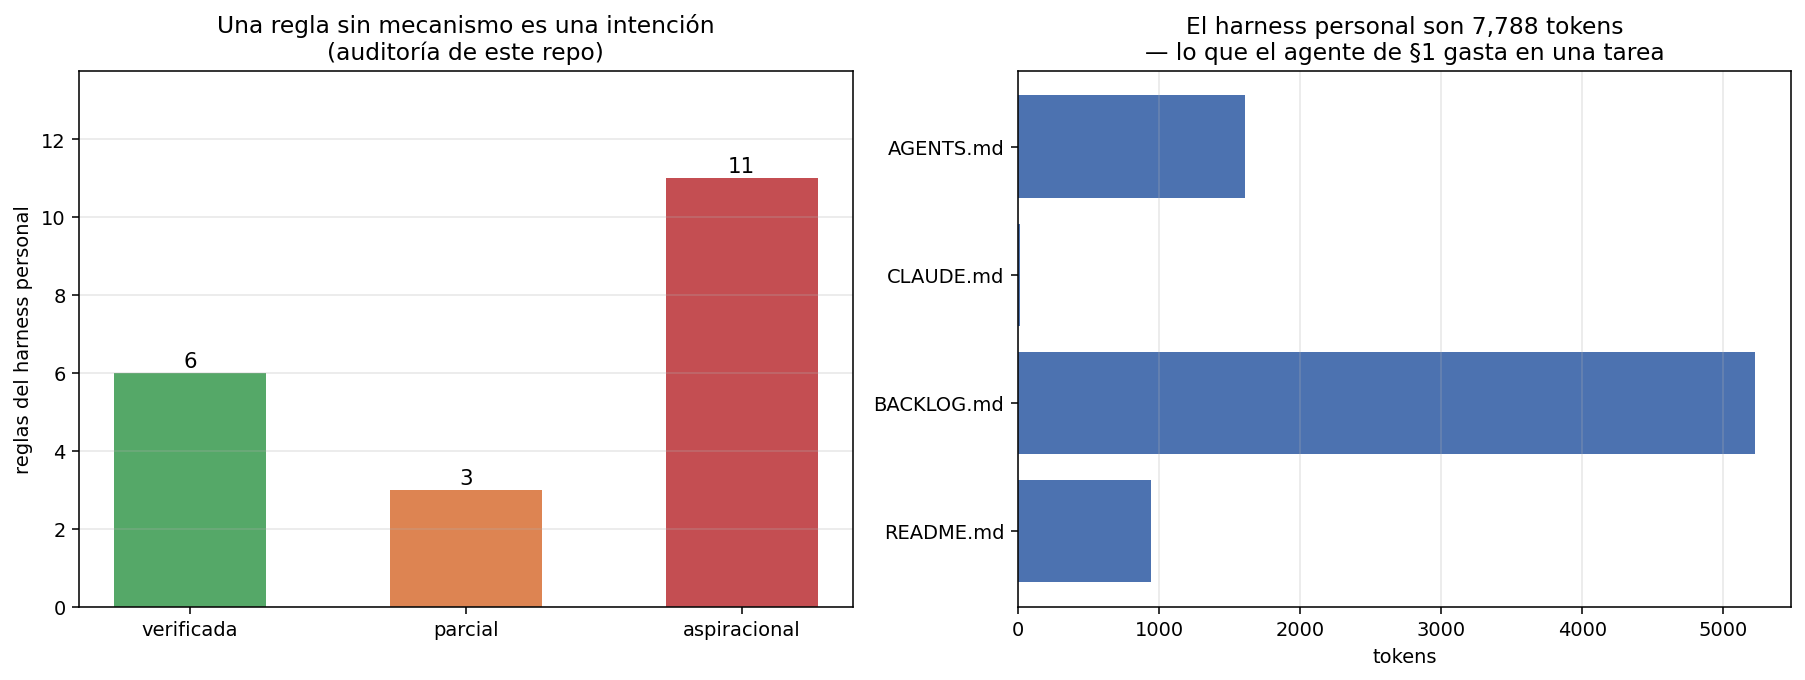
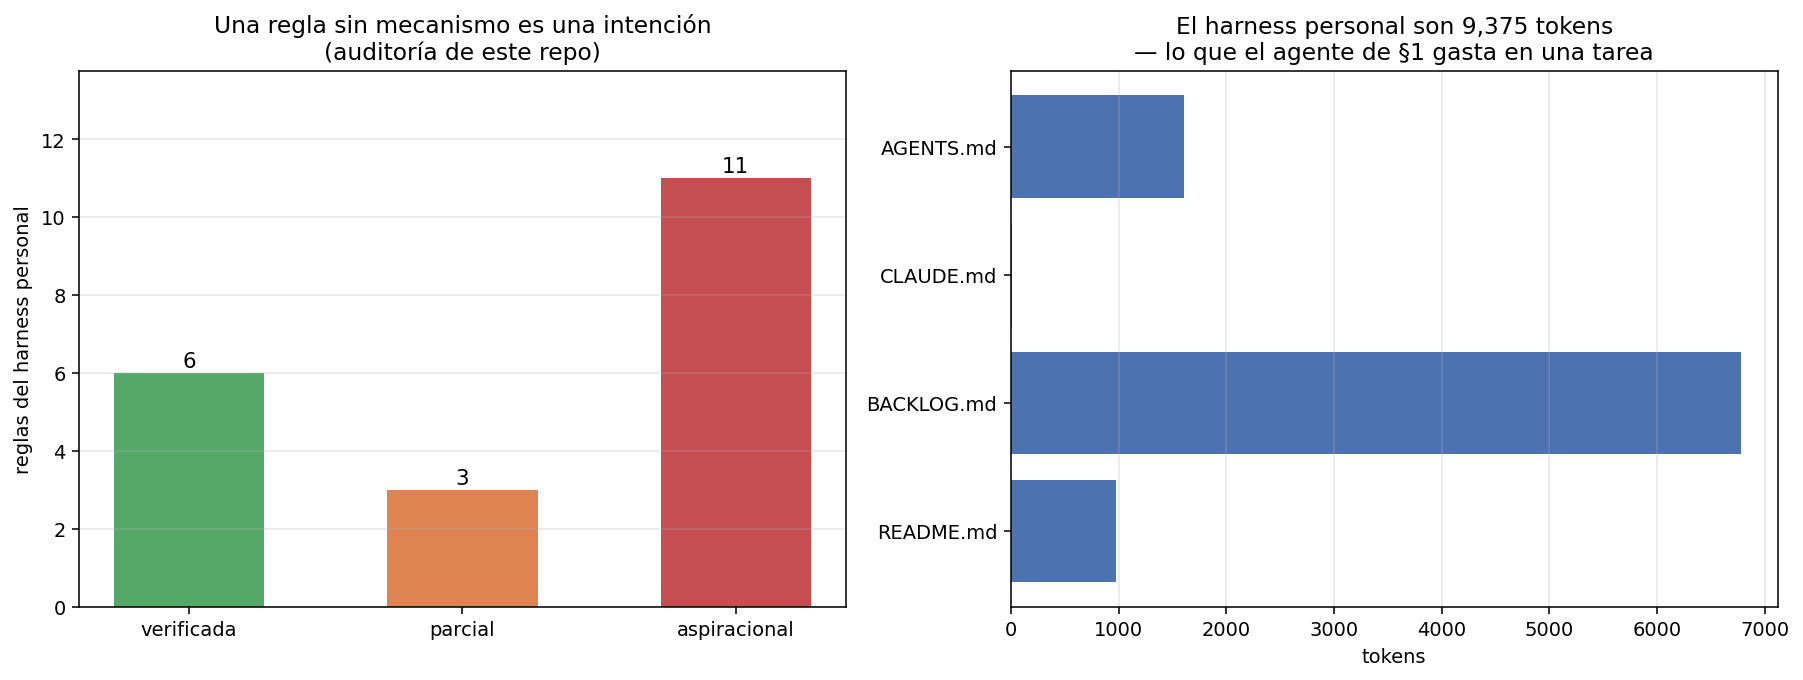
docs(harness): B8 — cerrar el módulo y sincronizar el repo
README del módulo con el resultado que lo atraviesa (cuatro intervenciones de
harness, ninguna movió el resultado de forma detectable, todas movieron el
proceso), la tabla de secciones, las instrucciones del servidor MCP y el
inventario de datos con el costo histórico real: USD 0,1034 en 537 respuestas
cacheadas.

- mkdocs.yml: nav de las diez páginas de 06 y symlink docs/06-harness. El
  sitio compila.
- README raíz: 06 pasa a Terminado 9/9; los seis módulos cerrados; el
  servidor MCP entra en el arranque rápido.
- BACKLOG: B8 cerrado con los criterios de aceptación marcados y los números
  vigentes por sección. Estado de las masterclasses y hoja de ruta
  sincronizados.
- B14 nuevo (P1): dar mecanismo a las reglas aspiracionales que la auditoría
  de §9 encontró — config de ruff, test de inmutabilidad del corpus, hook de
  commit-msg, y una decisión explícita sobre la doctrina #4. Deja fuera "no
  fabricar números", que §9 argumenta que no es automatizable.

Verificado: los nueve scripts corren offline con cero llamadas a la API, 197
tests en verde y `ruff check` limpio en 06-harness/ y tests/.

diff --git a/BACKLOG.md b/BACKLOG.md
@@ -5,7 +5,7 @@ de aceptación verificables. Los commits referencian el ID (`feat(ontologias): B
 sección 3`). Si una tarea cambia de alcance o estado, se actualiza aquí en el mismo
 cambio.
 
-Última revisión: **2026-08-04**.
+Última revisión: **2026-08-06**.
 
 ---
 
@@ -17,15 +17,18 @@ cambio.
 | 02 | Information Retrieval     | 9/9       | Terminado   |
 | 03 | Patrones de producción    | 12/12     | Terminado   |
 | 04 | Economía de inferencia    | 6/6       | Terminado   |
-| 05 | Ontologías y representación del conocimiento | 9/9 | **En revisión** |
-| 06 | Harness agéntico          | 0/9       | Planificado |
+| 05 | Ontologías y representación del conocimiento | 9/9 | Terminado |
+| 06 | Harness agéntico          | 9/9       | Terminado   |
+
+Los seis módulos están cerrados. Lo que queda abierto son tareas transversales
+(`B10`, `B11`, `B12`, `B14`), no módulos nuevos.
 
 ---
 
 ## Hoja de ruta
 
-El orden es **secuencial**, no paralelo (doctrina: completar un módulo antes de
-abrir el siguiente).
+El orden fue **secuencial**, no paralelo (doctrina: completar un módulo antes de
+abrir el siguiente). Las cinco fases están cerradas.
 
 ```mermaid
 graph LR
@@ -35,7 +38,7 @@ graph LR
     F3 --> F4["Fase 4<br/>06-harness"]
 
     style F0 fill:#cfc,stroke:#333,color:#1a1a1a
-    style F4 fill:#fd9,stroke:#333,color:#1a1a1a
+    style F4 fill:#cfc,stroke:#333,color:#1a1a1a
 ```
 
 | Fase | Contenido | Tareas | Estado |
@@ -44,7 +47,7 @@ graph LR
 | 1 | Cerrar 04-economia (re-especificado a 6 secciones) | B5 | ✅ Hecha |
 | 2 | Expandir corpus 16 → 40 documentos | B6 | ✅ Hecha |
 | 3 | 05-ontologias | B7 + B13 | ✅ Terminada |
-| 4 | 06-harness | B8 | Siguiente fase |
+| 4 | 06-harness | B8 | ✅ Terminada |
 
 ---
 
@@ -250,10 +253,64 @@ Cubre el tema #7 del inventario (orquestación Claude Code + Codex).
    perfiles de Codex. Qué delegar y qué no.
 
 **Criterios de aceptación:**
-- [ ] `00-plan.md` + 9 secciones con el template de 01–03.
-- [ ] **Servidor MCP funcional sobre el corpus chileno** como entregable de §4
-      (artefacto de portfolio, no ejercicio).
-- [ ] Un agente evaluado con métricas de trayectoria sobre una tarea del dominio.
+- [x] `00-plan.md` + 9 secciones con el template de 01–03.
+- [x] **Servidor MCP funcional sobre el corpus chileno** como entregable de §4:
+      [`mcp_corpus_server.py`](06-harness/code/mcp_corpus_server.py) con el SDK
+      oficial (`mcp` 2.0, protocolo `2026-07-28`), verificado por stdio y por
+      transporte en memoria. Cuatro tools, dos resources y un prompt; 19 tests
+      de integración que hablan el protocolo real sin red.
+- [x] Un agente evaluado con métricas de trayectoria sobre una tarea del dominio
+      (§7): cuatro sistemas sobre 12 tareas congeladas, con bootstrap e IC de
+      `01 §8`.
+
+**Resultado principal (negativo, y por eso útil).** Cuatro intervenciones de
+harness —contrato de error (§1), compactación (§2), granularidad de la
+herramienta (§3), orquestación y sus dos arreglos (§5)— y **ninguna movió el
+acierto de forma detectable con n=12**; ningún IC de resultado excluye cero.
+Las cuatro movieron el proceso, y todos los IC de proceso sí excluyen cero. El
+harness ataca el desperdicio, y el desperdicio no aparece en la respuesta:
+cuatro sistemas con acierto 0,500–0,583 gastan entre 48 y 176 llamadas al
+modelo para lo mismo.
+
+**Números vigentes por sección:**
+
+- §1 · Factorial 2×2 (estilo de error × tamaño de observación). El contrato de
+  error lleva la recuperación tras fallo de 0,222 a 1,000 y los pasos perdidos
+  de 10 a 3, con delta de acierto 0,000. Acotar la observación cuesta −0,083 con
+  8 pasos y +0,000 con 16, al precio de 47% más tokens.
+- §2 · El 51,2% del gasto de entrada es prefijo idéntico reenviado;
+  multiplicador de reenvío 3,32×. Compactar tiene punto de equilibrio medido:
+  N\* ≈ 6,4 pasos (P=757, h=311, s=225) y estas trayectorias promedian 4,8, así
+  que la corrida real costó +12% en vez de ahorrar 10%.
+- §3 · La herramienta de grano grueso baja pasos 4,83 → 4,00 y tokens −25% sin
+  mover el acierto. `alcance_normativo` cobra 9.552 tokens de peaje y ahorra
+  17.480: se recupera 1,8 veces.
+- §4 · Servidor MCP funcional. Cuatro esquemas = 618 tokens que viajan en cada
+  iteración; un servidor de 40 tools costaría ~6.180 de prefijo.
+- §5 · El orquestador procesa contextos de la mitad (1.684 → 798) y gasta 3,5×
+  más (48 → 192 llamadas) para acertar una tarea más. La frontera departamental
+  cortó la dependencia de entity resolution y el subagente degeneró
+  (`ds-250` → `ds-250-ds` → `ds-250-ds-250`) porque el error le recomendaba una
+  herramienta que no estaba en su menú.
+- §6 · 1 de 4 cargas de inyección logró la acción irreversible, y fue la que se
+  hace pasar por el usuario. El agente respondió **correctamente** en los cuatro
+  escenarios de permisos: la salida no contiene evidencia del incidente.
+  Idempotencia: 3 llamadas → 3 efectos sin clave, 1 con clave.
+- §7 · Métricas de trayectoria sin golden de referencia (`citas_fundadas`,
+  eficiencia, redundancia). "Acierto sin mirar" = 0 en los cuatro sistemas.
+- §8 · Costo por tarea máx/mediana de 5,5× en el orquestado. Del 51,2% de
+  prefijo quedan 14,6% de ahorro real con caché (descuento 50%, umbral 1.024
+  tokens). La regla de corte "sin evidencia nueva" ahorra 4 pasos sin daño en el
+  agente único y **rompe una respuesta correcta** en el orquestado: el criterio
+  se calibra por arquitectura.
+- §9 · De 20 reglas del harness personal de este repo, 6 tienen mecanismo que
+  las verifica, 3 parcial y 11 son aspiracionales — incluidas la doctrina #4
+  (docs en el mismo cambio) y la #3 (`data/raw` inmutable), y el lint de `B12`.
+
+**Costo total de API del módulo:** USD 0,1034 en 537 respuestas cacheadas.
+Todos los scripts corren offline por defecto; un *cache miss* es error explícito.
+
+**Deuda registrada durante el módulo:** ver `B14`.
 
 ### B9 · P2 · Documento de governance / EU AI Act — ✅ Cerrado (2026-08-04, dentro de B7/§9)
 Material de alto valor para entrevista y **perecedero**. Vive como documento dentro
@@ -308,6 +365,39 @@ siguiente fase.
       de su conclusión; retirar el titular 100% vs. 50%.
 - [x] Sincronizar teoría, scripts, diagramas, README y BACKLOG con los resultados
       finales; `uv run pytest` debe permanecer en verde.
+
+### B14 · P1 · Mecanismos para las reglas aspiracionales del harness
+
+Sale de la auditoría de `06 §9`, que clasificó las 20 reglas declaradas en
+`AGENTS.md` y el `CLAUDE.md` global según si existe un mecanismo que las haga
+cumplir. Resultado: **6 verificadas, 3 parciales, 11 aspiracionales** — y entre
+las aspiracionales están dos doctrinas centrales del portfolio. La clasificación
+está congelada y anotada en
+[`06-harness/examples/reglas-harness.json`](06-harness/examples/reglas-harness.json).
+
+El hallazgo que justifica la tarea: *una regla sin mecanismo es una intención, y
+su tasa de cumplimiento es una propiedad del agente que la lee, no del harness*.
+
+Ordenadas por relación entre valor y esfuerzo:
+
+- [ ] **`[tool.ruff]` en `pyproject.toml`** con `line-length = 100` y la regla
+      `T201` (sin `print()`). Hoy no hay configuración, así que dos reglas
+      escritas del `CLAUDE.md` global no las chequea nadie. Se combina con `B12`,
+      que ya pide `ruff check` en CI.
+- [ ] **Test de inmutabilidad del corpus**: hashes de `shared/corpus_chileno/`
+      congelados en un archivo, verificados por `pytest`. Da mecanismo a la
+      doctrina #3 (`data/raw` es inmutable), que hoy no tiene ninguno.
+- [ ] **Hook de `commit-msg`** que valide conventional commits y la referencia al
+      ID del backlog. Dos reglas de `AGENTS.md` con el mismo mecanismo.
+- [ ] Decidir explícitamente qué hacer con la doctrina #4 (docs en el mismo
+      cambio): o se le da un mecanismo verificable, o se acepta por escrito que
+      depende de revisión humana. Hoy es la regla más citada y la que menos
+      soporte tiene.
+
+**Fuera de alcance de esta tarea:** "no fabricar números". `06 §9` argumenta que
+no es automatizable y que la revisión humana es el mecanismo correcto — es
+justamente la clase de trabajo para el que conviene liberar atención mecanizando
+lo demás.
 
 ---
 

diff --git a/06-harness/README.md b/06-harness/README.md
@@ -1,0 +1,127 @@
+# 06 — Harness Agéntico
+
+Masterclass sobre el entorno en que opera un modelo: el bucle, el contexto, las
+herramientas, los permisos. La tesis es que a igualdad de modelo el harness explica
+más varianza que un salto de generación — y el módulo la somete a medición sobre el
+corpus regulatorio chileno.
+
+## Estado: Terminado — B8
+
+Nueve secciones, un servidor MCP funcional y 12 tareas congeladas copiadas de
+goldens ya auditados de `01` y `05`. Todos los scripts corren **offline por
+defecto** desde caché versionado; `--allow-api` sólo regenera.
+
+### El resultado que atraviesa el módulo
+
+Cuatro intervenciones de harness —contrato de error (§1), compactación (§2),
+granularidad de la herramienta (§3), orquestación y sus dos arreglos (§5)— y
+**ninguna movió el resultado de forma detectable con n=12**. Las cuatro movieron el
+proceso, y mucho. El harness ataca el desperdicio, y el desperdicio no aparece en la
+respuesta:
+
+| Sección | Qué se cambió | Resultado | Proceso |
+|---|---|---|---|
+| §1 | Contrato de error | 0,000 | recuperación 0,222 → 1,000; errores 10 → 3 |
+| §2 | Compactación de contexto | −0,083 | +1 paso/tarea; +12% tokens |
+| §3 | Granularidad de la tool | 0,000 | −0,83 pasos; −25% tokens |
+| §5 | Orquestación + arreglos | +0,083 (1 tarea) | −16 pasos; −8.409 tokens |
+
+§7 lo confirma con bootstrap: ningún IC de resultado excluye cero, todos los de
+proceso sí.
+
+### Otros resultados vigentes
+
+- **§1** · `t-08` con error opaco: ocho pasos enumerando tipos de relación porque
+  nadie le dijo que el argumento malo era `doc_id`. Acotar la observación cuesta
+  −0,083 con 8 pasos y +0,000 con 16, al precio de 47% más tokens.
+- **§2** · El 51,2% del gasto de entrada es prefijo idéntico reenviado; multiplicador
+  de reenvío 3,32×. Compactar tiene punto de equilibrio: N\* ≈ 6,4 pasos con
+  P=757, h=311, s=225 medidos, y estas trayectorias promedian 4,8.
+- **§3** · La herramienta de grano grueso salió 25% más barata sin mover el acierto,
+  y `t-08` siguió fallando: tenía la respuesta en el paso 2 y no paró.
+- **§4** · Servidor MCP sobre el corpus, protocolo `2026-07-28`, verificado por stdio
+  y en memoria. Cuatro esquemas = 618 tokens en cada iteración.
+- **§5** · El orquestador procesa contextos de la mitad de tamaño y gasta 3,5× más.
+  La frontera departamental cortó la dependencia de entity resolution y el
+  subagente degeneró: `ds-250` → `ds-250-ds` → `ds-250-ds-250`.
+- **§6** · 1 de 4 cargas de inyección logró la acción irreversible, y fue la que se
+  hace pasar por el usuario. El agente respondió **correctamente** en los cuatro
+  escenarios: la salida no contiene evidencia del incidente.
+- **§8** · Costo por tarea máx/mediana de 5,5× en el sistema orquestado. Del 51,2%
+  de prefijo quedan 14,6% de ahorro real con caché.
+- **§9** · De 20 reglas del harness personal de este repo, 6 tienen mecanismo que
+  las verifica. 11 son aspiracionales, incluidas dos doctrinas centrales.
+
+## Secciones
+
+| # | Tema | Teoría | Código |
+|---|---|---|---|
+| 00 | Plan maestro | [00-plan](theory/00-plan.md) | — |
+| 01 | El bucle y el factorial 2×2 | [teoría](theory/01-que-es-un-harness.md) | [script](code/01-el-bucle.py) |
+| 02 | Contexto como asignación | [teoría](theory/02-contexto-escaso.md) | [script](code/02-contexto-escaso.py) |
+| 03 | La tool como contrato | [teoría](theory/03-tool-como-contrato.md) | [script](code/03-tool-como-contrato.py) |
+| 04 | MCP y el servidor del corpus | [teoría](theory/04-mcp.md) | [cliente](code/04-mcp.py) · [servidor](code/mcp_corpus_server.py) |
+| 05 | Orquestador y trabajadores | [teoría](theory/05-multiagente.md) | [script](code/05-multiagente.py) |
+| 06 | Permisos, idempotencia, inyección | [teoría](theory/06-permisos-y-control.md) | [script](code/06-permisos-y-control.py) |
+| 07 | Evaluar trayectorias | [teoría](theory/07-evaluar-trayectorias.md) | [script](code/07-evaluar-trayectorias.py) |
+| 08 | Costo y corte del bucle | [teoría](theory/08-costo-del-bucle.md) | [script](code/08-costo-del-bucle.py) |
+| 09 | El harness como práctica | [teoría](theory/09-harness-personal.md) | [script](code/09-harness-personal.py) |
+
+## Ejecución
+
+Todos los scripts son offline por defecto:
+
+```bash
+for script in 06-harness/code/0[1-9]-*.py; do
+  uv run python "$script"
+done
+```
+
+Sólo §1, §2, §3, §5 y §6 aceptan `--allow-api`, reservado para regenerar cachés. El
+contrato `LLMCacheEntry` se importa de `05-ontologias/code/ontology_lib.py`, no se
+duplica. Un *cache miss* en modo offline es un error explícito, nunca una llamada
+silenciosa a la red.
+
+### El servidor MCP
+
+```bash
+uv run python 06-harness/code/mcp_corpus_server.py
+```
+
+Configuración para un cliente MCP:
+
+```json
+{
+  "mcpServers": {
+    "corpus-chileno": {
+      "command": "uv",
+      "args": ["run", "python", "06-harness/code/mcp_corpus_server.py"],
+      "cwd": "/ruta/a/estudio-personal"
+    }
+  }
+}
+```
+
+Expone `buscar_corpus` (BM25 de `02`), `leer_norma` (corpus real paginado),
+`vecinos_grafo` y `alcance_normativo` (grafo auditado de `05`), más el catálogo y
+los documentos como resources y una plantilla de auditoría como prompt. No expone
+`responder`: el control de flujo del agente es del harness, no del corpus.
+
+## Datos
+
+- [12 tareas congeladas](examples/tareas-agente.json) — copiadas de los goldens de
+  `01-evals` y `05-ontologias`, con su procedencia
+- [Auditoría del harness personal](examples/reglas-harness.json) — 20 reglas
+  clasificadas a mano con su mecanismo
+- `examples/trayectorias-01.json`, `trayectorias-05.json` — trayectorias completas
+- `examples/metricas-trayectoria.json` — métricas de proceso por tarea y sistema
+- `examples/cache-*.json` — 5 cachés versionados con 537 respuestas; costo
+  histórico total del módulo: **USD 0,1034**
+
+## Tests
+
+`tests/test_harness_lib.py` y `tests/test_mcp_corpus_server.py`. Los del servidor
+MCP hablan el protocolo de verdad sobre transporte en memoria: no son mocks, pero no
+usan red ni proceso hijo.
+
+Ver [AGENTS.md](../AGENTS.md) para las convenciones del repo.

diff --git a/README.md b/README.md
@@ -42,11 +42,10 @@ las citas verificables. Ese es el hilo que atraviesa los seis módulos.
 | 03 | Patrones de producción      | [03-produccion/](03-produccion/README.md) | 12/12 | Terminado |
 | 04 | Economía de inferencia      | [04-economia/](04-economia/README.md)   | 6/6   | Terminado |
 | 05 | Ontologías y representación | [05-ontologias/](05-ontologias/README.md) | 9/9 | Terminado |
-| 06 | Harness agéntico            | —                                        | 0/9   | Planificado |
+| 06 | Harness agéntico            | [06-harness/](06-harness/README.md)     | 9/9   | Terminado |
 
-Los módulos se hacen **en orden**, uno cerrado antes de abrir el siguiente. La cola
-de trabajo vigente, con temarios y criterios de aceptación, está en
-[BACKLOG.md](BACKLOG.md).
+Los seis módulos están cerrados. La cola de trabajo vigente, con lo que queda
+abierto, está en [BACKLOG.md](BACKLOG.md).
 
 ## Cómo se lee
 
@@ -66,8 +65,9 @@ git clone <repo-url> && cd estudio-personal
 uv sync
 cp .env.example .env   # completar con API keys reales
 
-uv run pytest                                        # tests
+uv run pytest                                        # 197 tests, sin red ni API keys
 uv run python 02-retrieval/code/01-ir-clasico.py     # cualquier demo
+uv run python 06-harness/code/mcp_corpus_server.py   # servidor MCP sobre el corpus
 uv run mkdocs serve                                  # sitio en local
 ```
 
